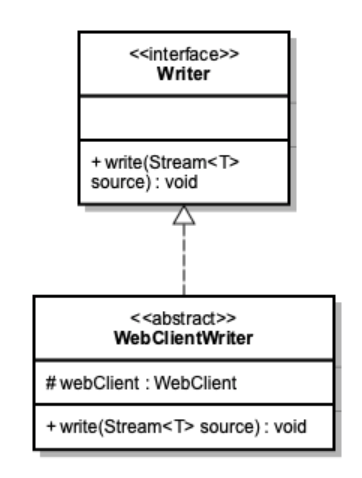
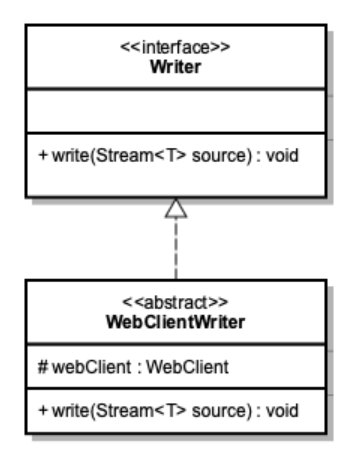
[FIX] Typo

Changed region(s): [[0.0571, 0.0307, 0.9714, 0.9825]]

diff --git a/_posts/2019-09-08-bulk-insert-system.md b/_posts/2019-09-08-bulk-insert-system.md
@@ -78,7 +78,7 @@ navigation: True
 
 ## 도메인 - Writer
 * 쿠폰 지급 행위를 수행할 Writer.
-    * write(T) - T에게 쿠폰을 지급한다.
+    * write(Stream<T>) - Stream<T>에게 쿠폰을 지급한다.
     * WebClientWriter는 WebClient를 활용하여 비동기 및 동기 스펙으로 API 호출이 가능한 Writer이다.
 * ![쿠폰 Writer](/assets/images/post/Domain-Writer.png)
 
